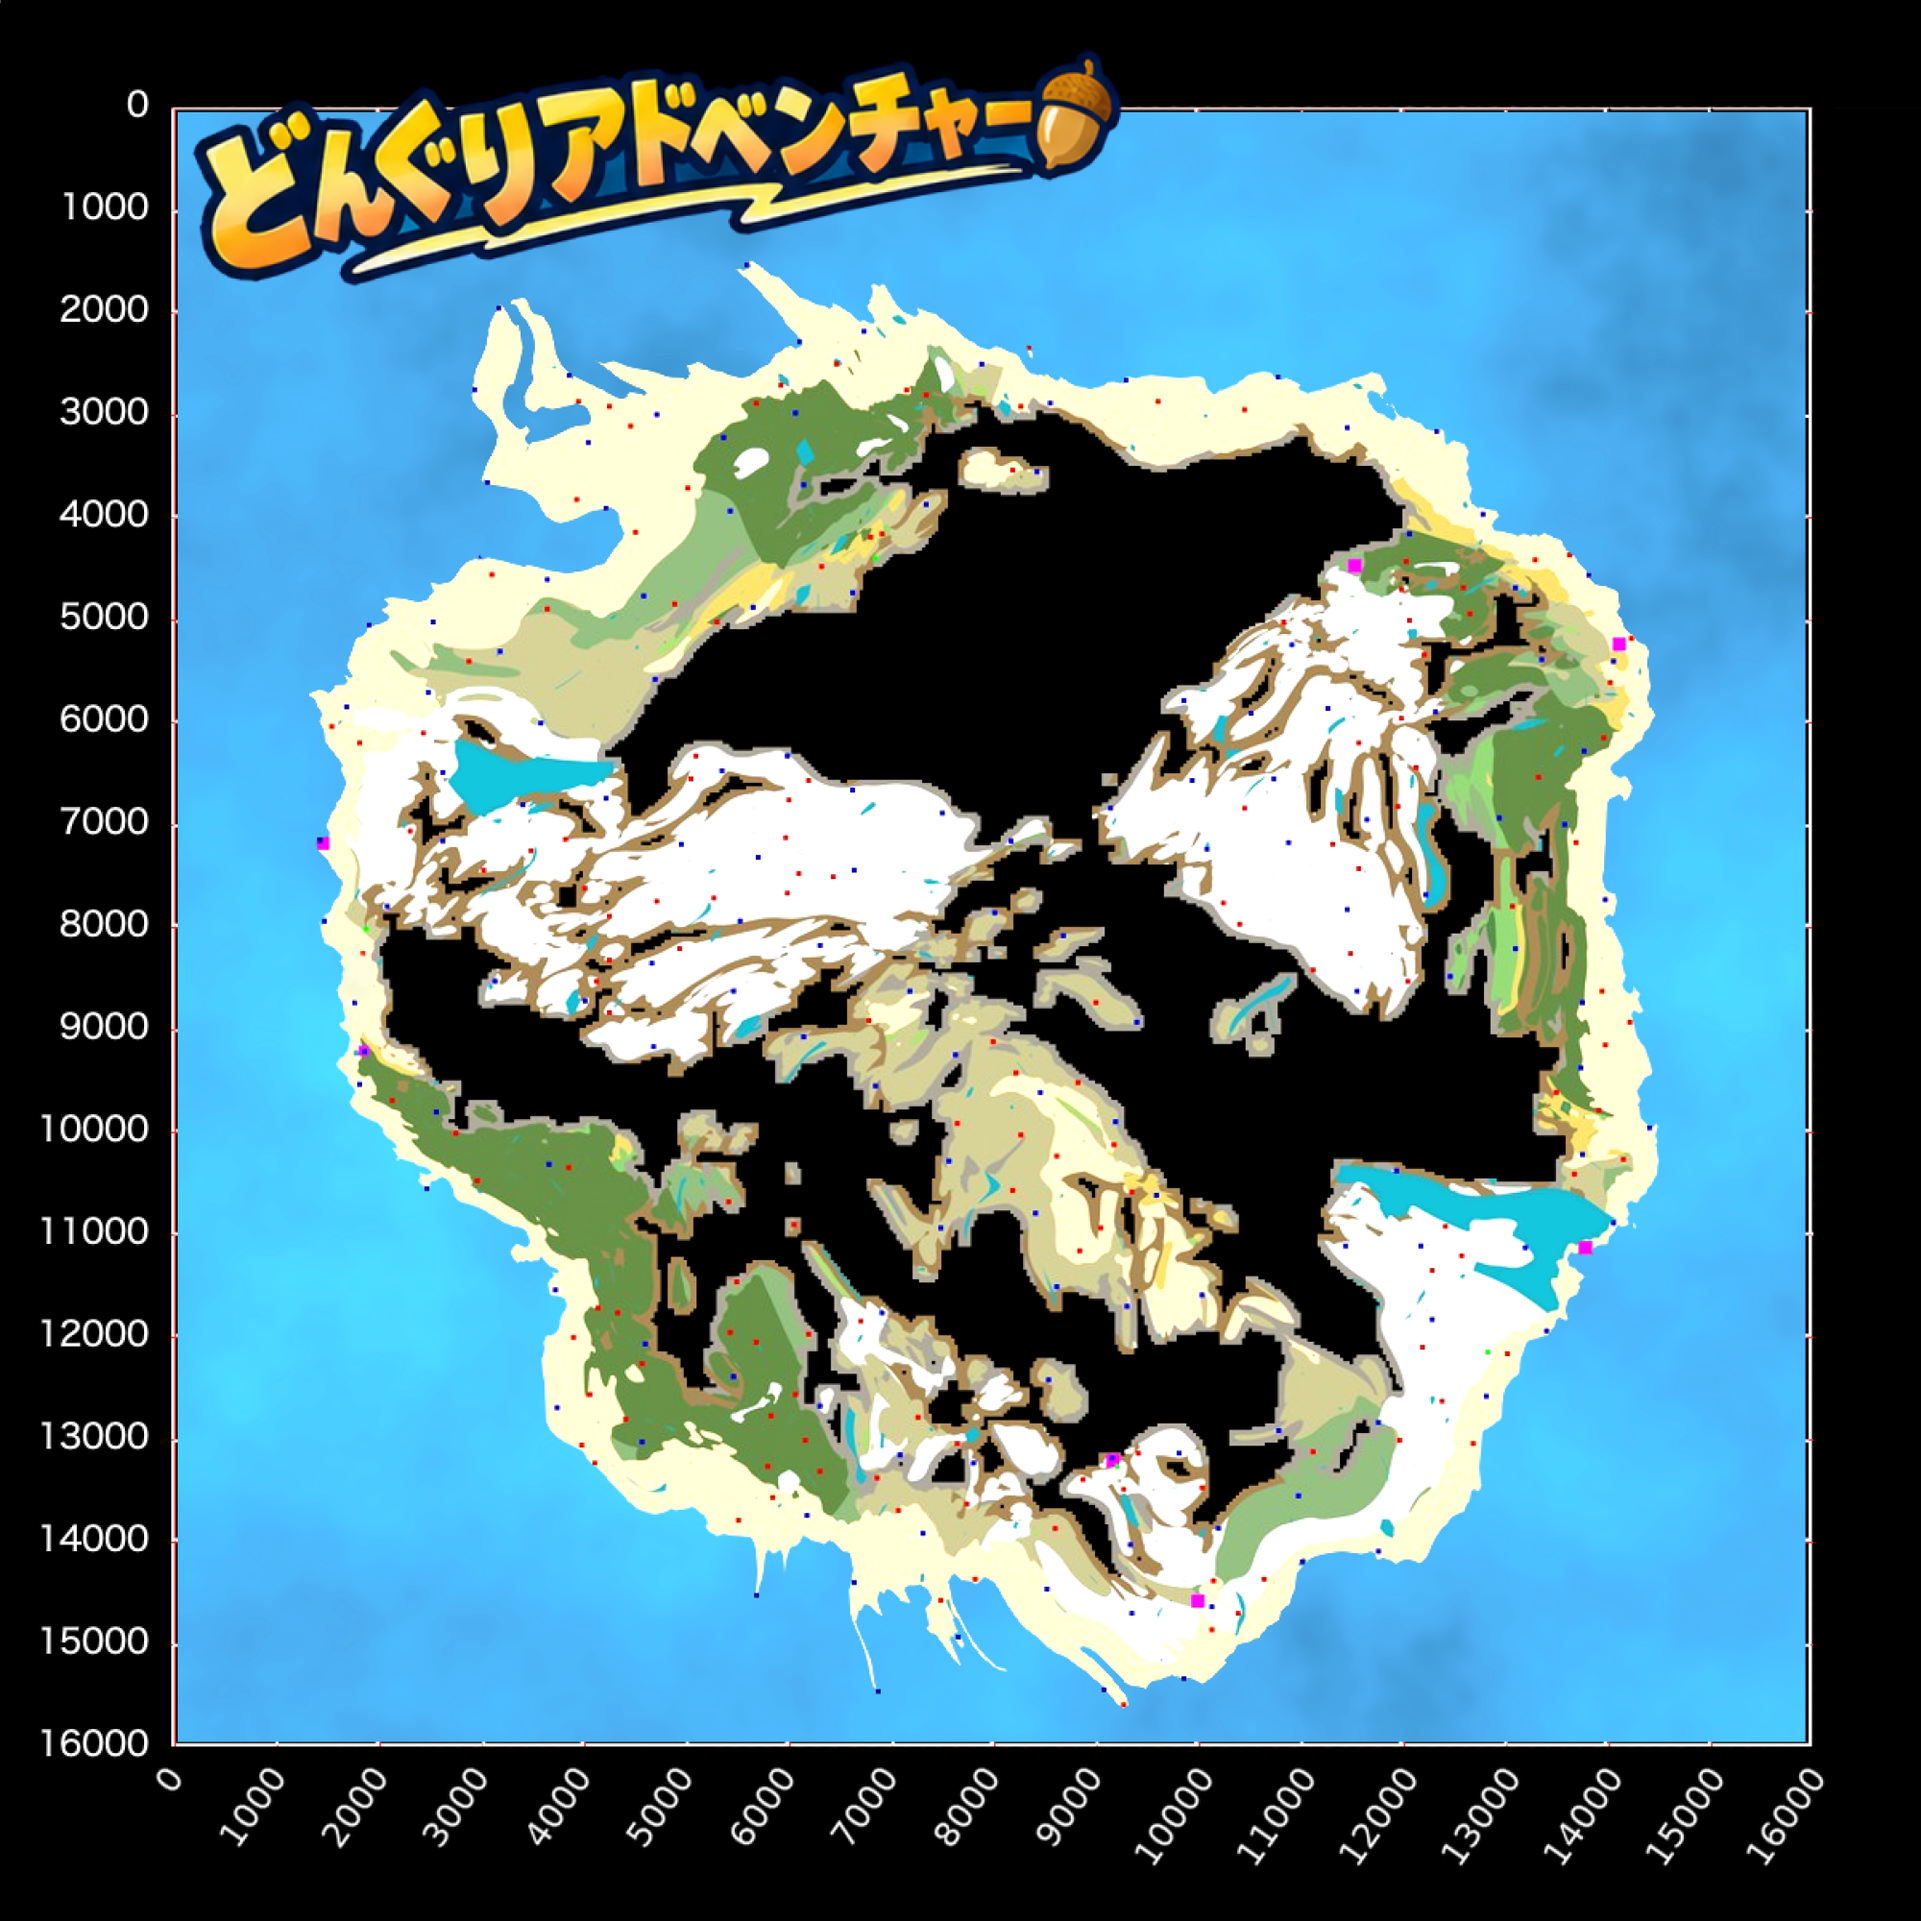
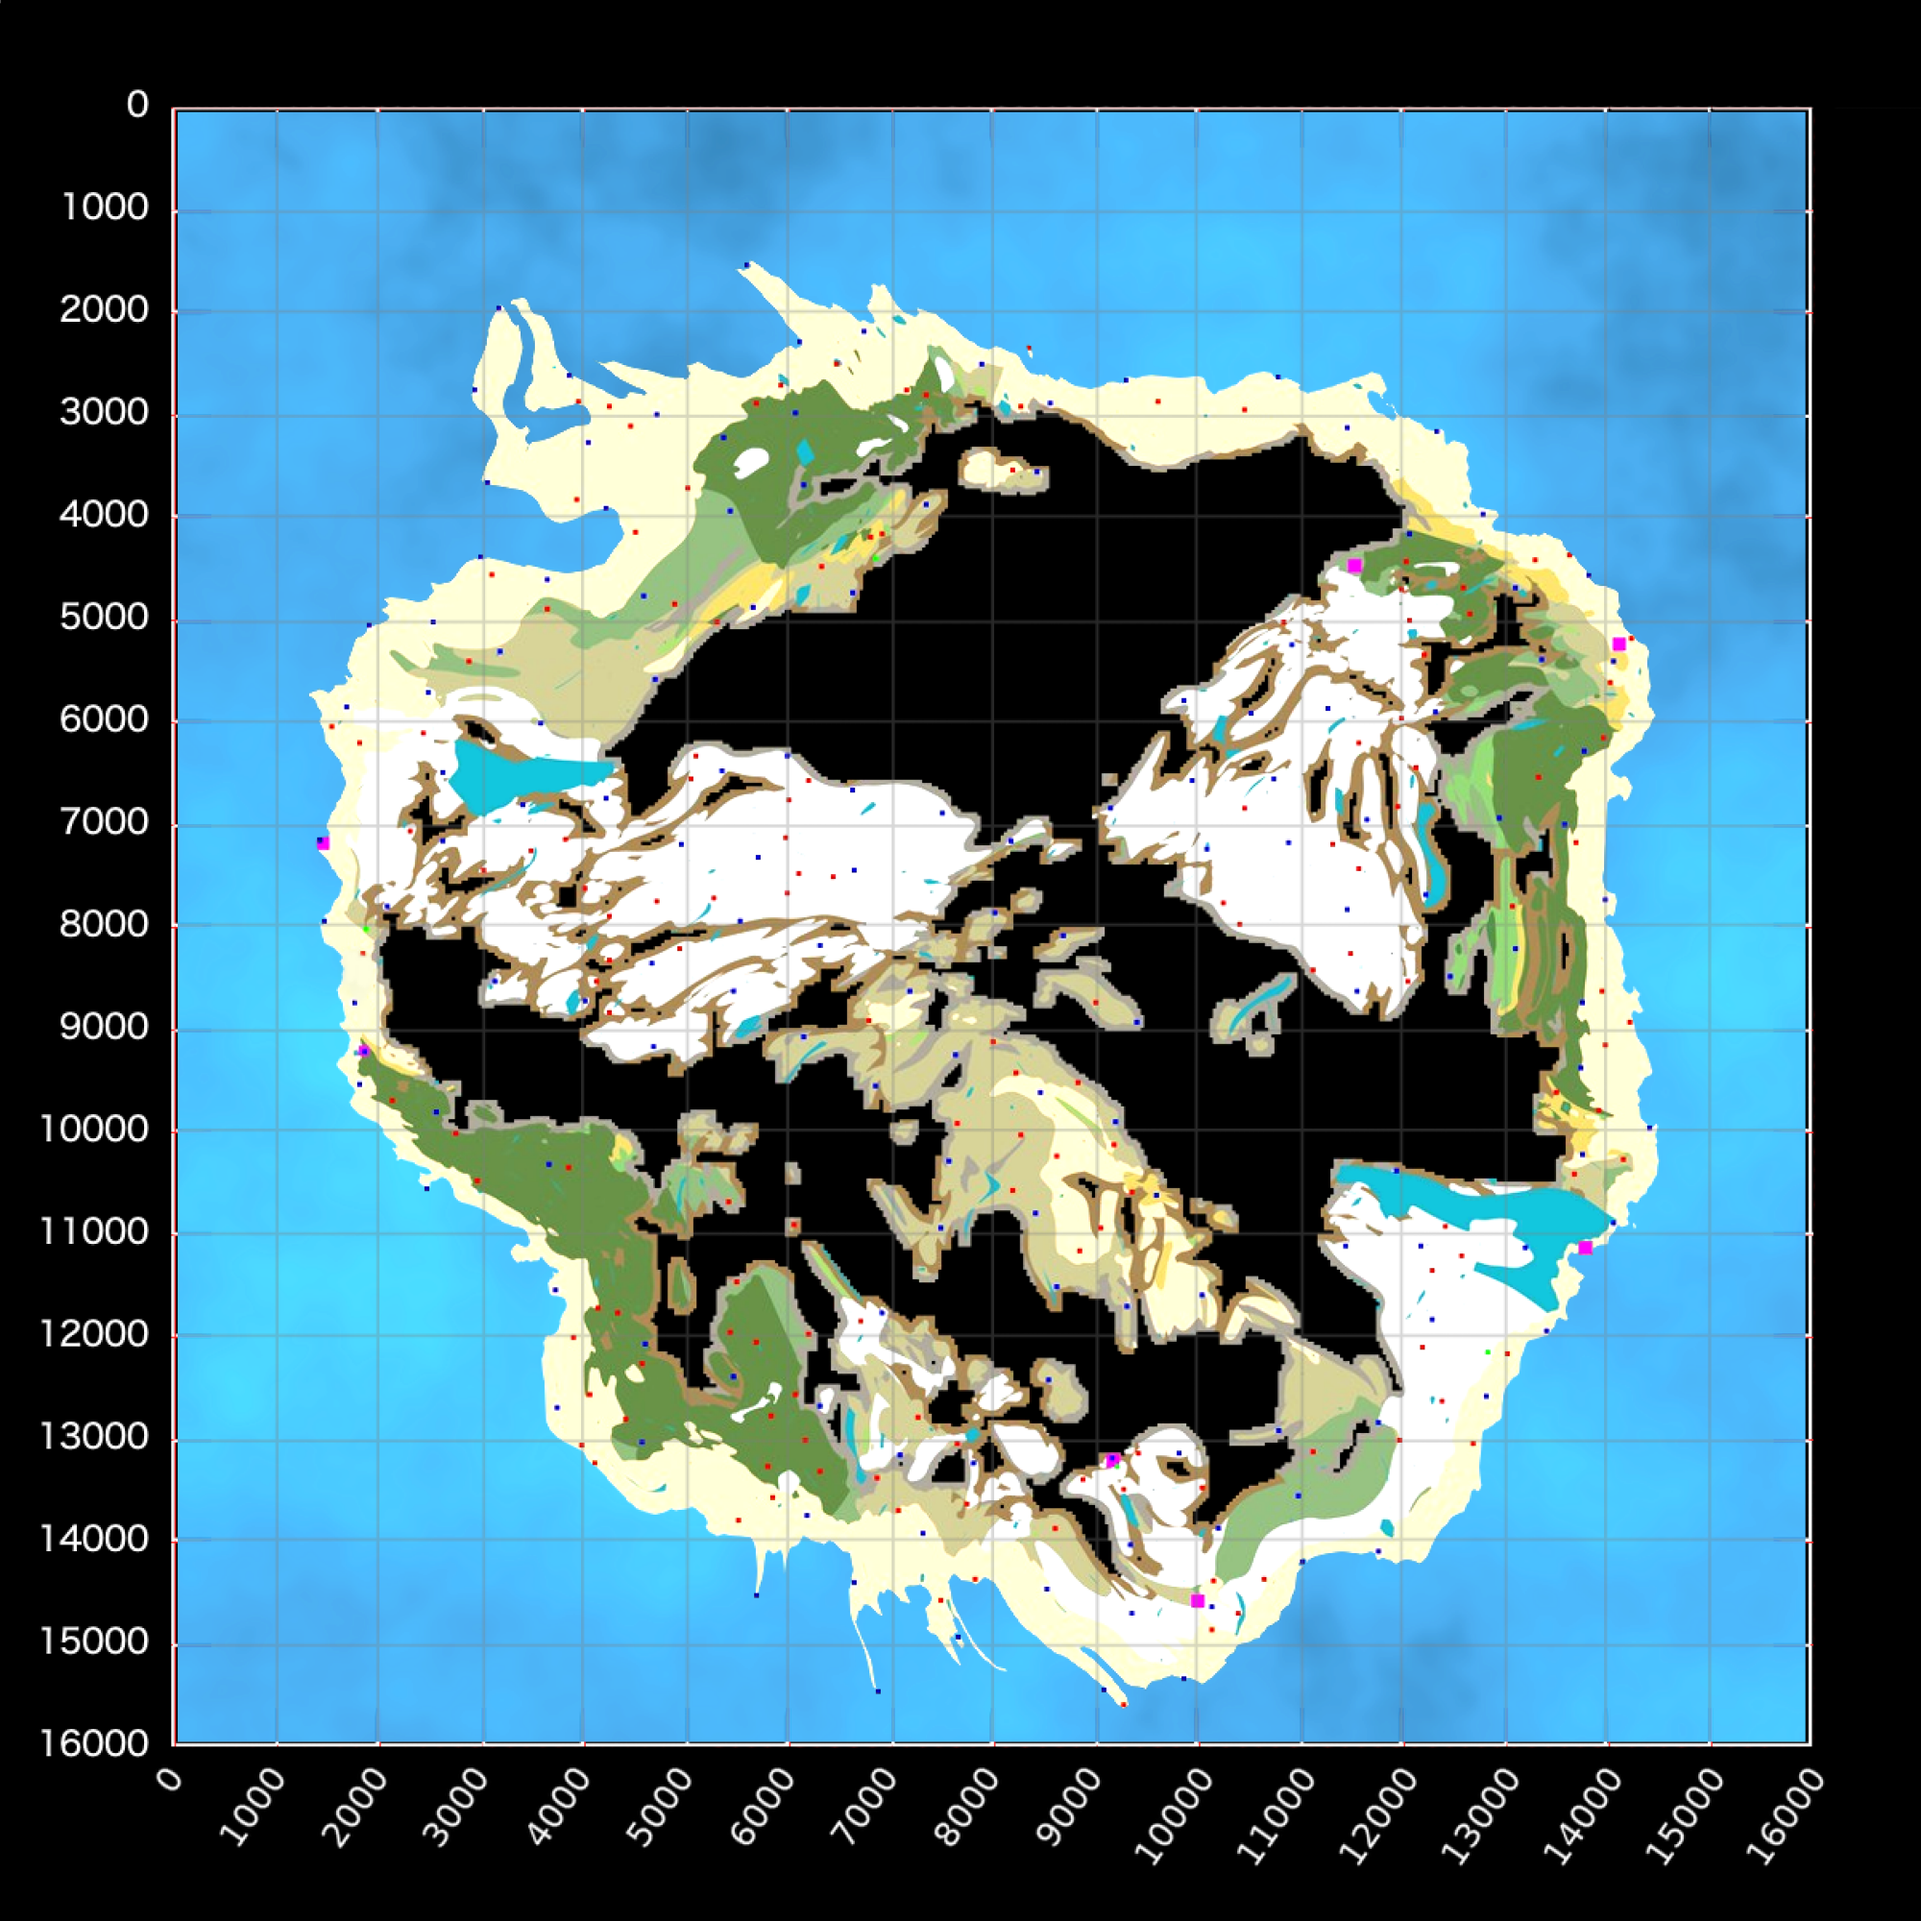
Update labels-off map and guide color legend

Changed region(s): [[0.093, 0.031, 0.589, 0.155]]

diff --git a/src/components/portal-map.tsx b/src/components/portal-map.tsx
@@ -258,7 +258,7 @@ export function PortalMap() {
     let nextMessageTimer = 0;
     const scheduleRandomMessage = (delay: number) => {
       nextMessageTimer = window.setTimeout(() => {
-        setCueMessage(1 + Math.floor(Math.random() * 3));
+        setCueMessage(1 + Math.floor(Math.random() * 4));
         visibleTimer = window.setTimeout(() => {
           setCueMessage(null);
           scheduleRandomMessage(15_000);
@@ -534,6 +534,7 @@ export function PortalMap() {
               <span data-active={cueMessage === 1}>ドラッグで移動</span>
               <span data-active={cueMessage === 2}>スクロール / ピンチで拡大</span>
               <span data-active={cueMessage === 3}>ポータルをタップ / ホバー</span>
+              <span data-active={cueMessage === 4}>緑：ダンジョン、ピンク：町、紫：その他</span>
             </span>
           </aside>
         ) : null}
